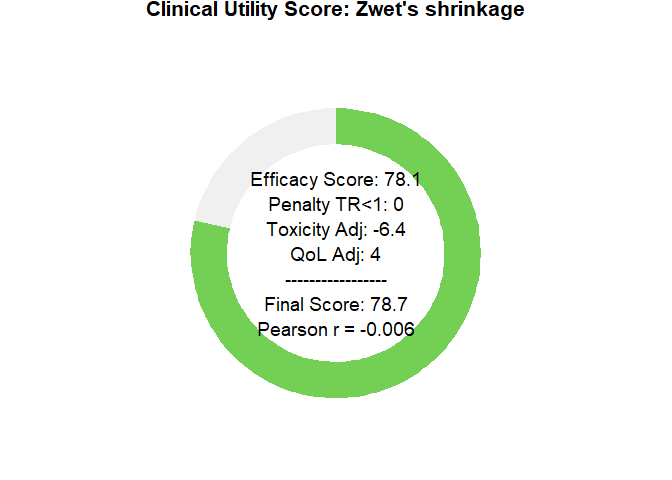
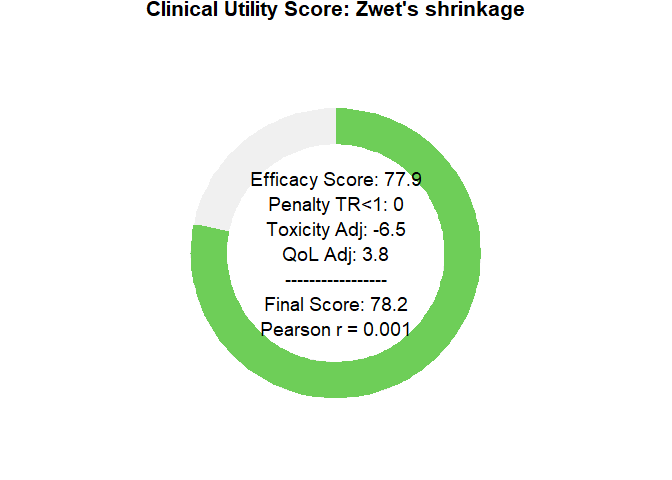
Improve documentation

diff --git a/README.md b/README.md
@@ -224,7 +224,7 @@ print(bayesian_fit$stan_fit, pars = c("beta_cure_arm", "beta_surv_arm", "alpha_c
 #> beta_surv_arm 0.26    0.01 0.29 -0.20 0.06 0.22 0.44  0.90  1677    1
 #> alpha_control 1.22    0.00 0.10  1.02 1.15 1.22 1.29  1.41  1884    1
 #> 
-#> Samples were drawn using NUTS(diag_e) at Tue Jan 27 20:14:58 2026.
+#> Samples were drawn using NUTS(diag_e) at Fri Jan 30 20:07:42 2026.
 #> For each parameter, n_eff is a crude measure of effective sample size,
 #> and Rhat is the potential scale reduction factor on split chains (at 
 #> convergence, Rhat=1).
@@ -560,13 +560,13 @@ cat("--- Final Bayescores Summary ---\n")
 #> --- Final Bayescores Summary ---
 print(final_scores$component_summary)
 #>                        Component    Median Lower_95_CrI.2.5% Upper_95_CrI.97.5%
-#> 1           Utility Cure (0-100) 82.535431          0.000000         93.8517217
-#> 2          Utility TR (for TR>1) 48.801244          0.000000         98.2436794
-#> 3          Penalty TR (for TR<1)  0.000000        -27.234938          0.0000000
-#> 4      Efficacy Score (Combined) 91.451942         65.108020         98.5457782
-#> 5      QoL Contribution (points)  3.915637         -9.634322         20.1290210
-#> 6 Toxicity Contribution (points) -3.269444        -22.338685         -0.0574658
-#> 7            FINAL UTILITY SCORE 92.910607         47.192252         99.8752520
+#> 1           Utility Cure (0-100) 82.535431           0.00000        93.85172165
+#> 2          Utility TR (for TR>1) 48.801244           0.00000        98.24367936
+#> 3          Penalty TR (for TR<1)  0.000000         -27.23494         0.00000000
+#> 4      Efficacy Score (Combined) 91.451942          65.10802        98.54577821
+#> 5      QoL Contribution (points)  3.953580          -9.68866        20.10829930
+#> 6 Toxicity Contribution (points) -3.268844         -22.13845        -0.05742913
+#> 7            FINAL UTILITY SCORE 92.875119          48.01128        99.87587228
 print(final_scores$identifiability_level)
 #> [1] "Strong"
 ```
@@ -684,9 +684,9 @@ comparison <- rbind(
 
 print(comparison)
 #>       prior   Median
-#> 7  unshrunk 92.91061
-#> 71     zwet 78.68400
-#> 72   sherry 88.18727
+#> 7  unshrunk 92.87512
+#> 71     zwet 78.22219
+#> 72   sherry 87.55711
 
 # plot utility donuts for each prior
 plot_utility_donut(final_scores_zwet, trial_name ="Zwet's shrinkage")
